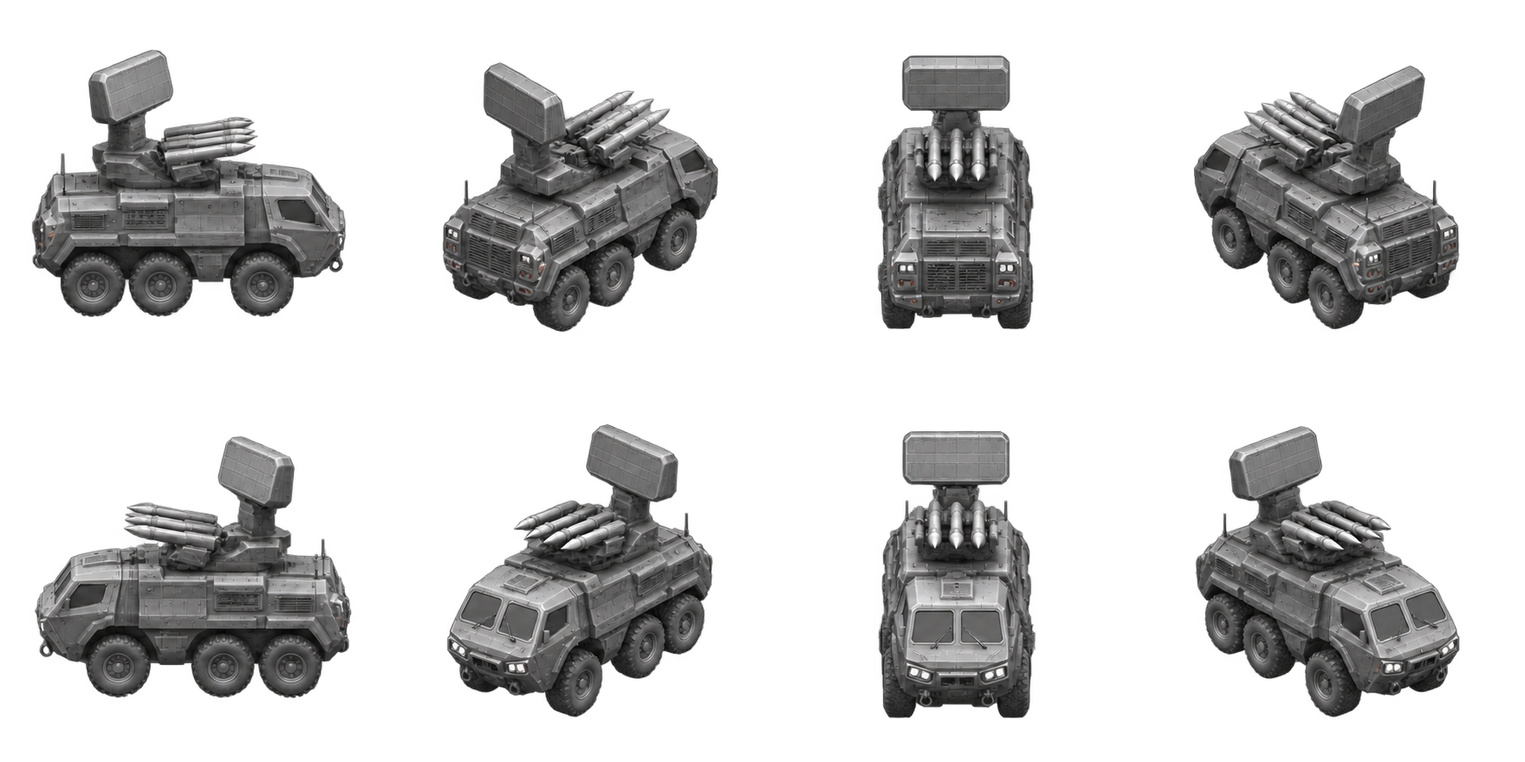
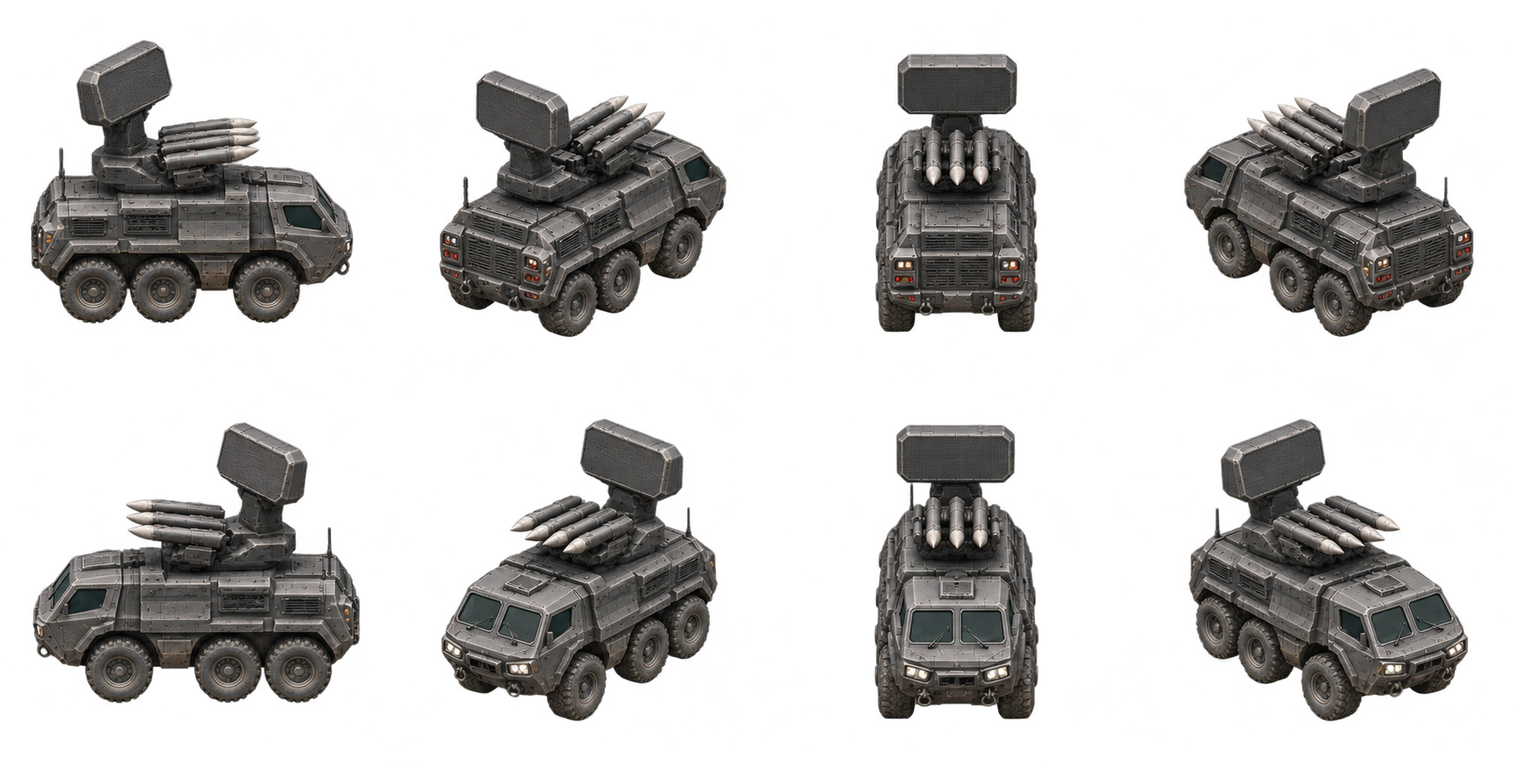
v6.30: 细化防空兵模与威胁警示并修正截图预算

diff --git a/DesertFrontline/GameScene.swift b/DesertFrontline/GameScene.swift
@@ -15490,54 +15490,54 @@ final class GameScene: SKScene {
             ellipseIn: CGRect(x: -range, y: -range, width: range * 2, height: range * 2),
             transform: nil
         )
-        entity.airDefenseThreatCoverageNode.fillColor = UIColor(red: 1.0, green: 0.22, blue: 0.12, alpha: 0.018)
-        entity.airDefenseThreatCoverageNode.strokeColor = UIColor(red: 1.0, green: 0.36, blue: 0.16, alpha: 0.56)
-        entity.airDefenseThreatCoverageNode.lineWidth = entity.kind == .samSite ? 2.8 : 2.2
-        entity.airDefenseThreatCoverageNode.glowWidth = 1.4
+        entity.airDefenseThreatCoverageNode.fillColor = .clear
+        entity.airDefenseThreatCoverageNode.strokeColor = HUDPalette.warning.withAlphaComponent(0.66)
+        entity.airDefenseThreatCoverageNode.lineWidth = 1.2
+        entity.airDefenseThreatCoverageNode.glowWidth = 0
         entity.airDefenseThreatCoverageNode.zPosition = -7
         entity.airDefenseThreatCoverageNode.isHidden = true
 
-        let markerColor = UIColor(red: 1.0, green: 0.52, blue: 0.16, alpha: 1.0)
-        let markerBaseY = entity.kind.footprint * 0.52 + 34
-        for index in 0..<3 {
+        let markerColor = HUDPalette.warning
+        let markerBaseY = entity.kind.footprint * 0.52 + 29
+        for index in 0..<2 {
             let path = CGMutablePath()
-            path.move(to: CGPoint(x: -8, y: 4))
-            path.addLine(to: CGPoint(x: 0, y: -4))
-            path.addLine(to: CGPoint(x: 8, y: 4))
+            path.move(to: CGPoint(x: -6, y: 3))
+            path.addLine(to: CGPoint(x: 0, y: -3))
+            path.addLine(to: CGPoint(x: 6, y: 3))
             let chevron = SKShapeNode(path: path)
-            chevron.position = CGPoint(x: 0, y: markerBaseY + CGFloat(index) * 9)
-            chevron.strokeColor = markerColor.withAlphaComponent(1.0 - CGFloat(index) * 0.18)
-            chevron.lineWidth = 3
+            chevron.position = CGPoint(x: 0, y: markerBaseY + CGFloat(index) * 7)
+            chevron.strokeColor = markerColor.withAlphaComponent(1.0 - CGFloat(index) * 0.24)
+            chevron.lineWidth = 1.5
             chevron.lineCap = .round
             chevron.lineJoin = .round
-            chevron.glowWidth = 1
+            chevron.glowWidth = 0
             entity.airDefenseThreatMarkerNode.addChild(chevron)
         }
-        let core = SKShapeNode(circleOfRadius: 4)
-        core.position = CGPoint(x: 0, y: markerBaseY - 10)
-        core.fillColor = UIColor(red: 1.0, green: 0.24, blue: 0.14, alpha: 1.0)
-        core.strokeColor = UIColor.white.withAlphaComponent(0.92)
-        core.lineWidth = 1.2
+        let core = SKShapeNode(circleOfRadius: 2.5)
+        core.position = CGPoint(x: 0, y: markerBaseY - 8)
+        core.fillColor = markerColor
+        core.strokeColor = HUDPalette.panelDeep
+        core.lineWidth = 1
         entity.airDefenseThreatMarkerNode.addChild(core)
         entity.airDefenseThreatMarkerNode.zPosition = 32
         entity.airDefenseThreatMarkerNode.isHidden = true
     }
 
     private func configureIncomingThreatMarkerNode(for entity: GameEntity) {
-        let warningColor = UIColor(red: 1.0, green: 0.30, blue: 0.14, alpha: 1.0)
+        let warningColor = HUDPalette.warning
         let arrowRadius = entity.kind.footprint * 0.78 + 10
         for index in 0..<2 {
-            let inset = CGFloat(index) * 9
+            let inset = CGFloat(index) * 6
             let path = CGMutablePath()
-            path.move(to: CGPoint(x: arrowRadius + inset - 9, y: -7))
+            path.move(to: CGPoint(x: arrowRadius + inset - 6, y: -4.5))
             path.addLine(to: CGPoint(x: arrowRadius + inset, y: 0))
-            path.addLine(to: CGPoint(x: arrowRadius + inset - 9, y: 7))
+            path.addLine(to: CGPoint(x: arrowRadius + inset - 6, y: 4.5))
             let chevron = SKShapeNode(path: path)
-            chevron.strokeColor = index == 0 ? UIColor.white.withAlphaComponent(0.94) : warningColor
-            chevron.lineWidth = index == 0 ? 2.2 : 3.2
+            chevron.strokeColor = index == 0 ? HUDPalette.text : warningColor
+            chevron.lineWidth = 1.5
             chevron.lineCap = .round
             chevron.lineJoin = .round
-            chevron.glowWidth = index == 0 ? 0.6 : 1.4
+            chevron.glowWidth = 0
             entity.incomingThreatDirectionNode.addChild(chevron)
         }
         entity.incomingThreatMarkerNode.addChild(entity.incomingThreatDirectionNode)
@@ -15545,10 +15545,10 @@ final class GameScene: SKScene {
         let labelY = -entity.kind.footprint * 0.48 - 16
         let labelBack = SKShapeNode(rectOf: CGSize(width: 36, height: 15), cornerRadius: 3)
         labelBack.position = CGPoint(x: 0, y: labelY)
-        labelBack.fillColor = UIColor(red: 0.22, green: 0.04, blue: 0.02, alpha: 0.88)
-        labelBack.strokeColor = warningColor
-        labelBack.lineWidth = 1.5
-        labelBack.glowWidth = 0.8
+        labelBack.fillColor = HUDPalette.panelDeep.withAlphaComponent(0.96)
+        labelBack.strokeColor = warningColor.withAlphaComponent(0.75)
+        labelBack.lineWidth = 0.75
+        labelBack.glowWidth = 0
         entity.incomingThreatMarkerNode.addChild(labelBack)
 
         entity.incomingThreatCountLabel.text = "IN 1"

diff --git a/ci/check_probe_runner.py b/ci/check_probe_runner.py
@@ -2484,7 +2484,8 @@ class SceneEvidenceTests(unittest.TestCase):
     def screenshot_context(self):
         self.runner.current_definition = self.definition
         self.runner.summary["selectedDevice"] = self.runner.device
-        record = self.scene()
+        record = self.runner.summary["probes"][0]
+        record.update(self.scene())
         return record, self.directory / self.definition["png"]
 
     def test_screenshot_timeout_retries_once_same_scene_and_isolates_late_output(self):
@@ -2541,6 +2542,60 @@ class SceneEvidenceTests(unittest.TestCase):
                     self.assertTrue((self.directory / attempts[0]["candidate"]).is_file())
                     self.assertEqual(record["screenCapture"]["elapsedSeconds"], 6)
 
+    def test_slow_screenshot_retry_leaves_full_ocr_in_both_deadlines(self):
+        # Synthetic timing/CLI receipts only; this does not execute Vision or simctl.
+        for shared_deadline in (1440, 170):
+            with self.subTest(shared_deadline=shared_deadline):
+                clock, caps, inspection_caps = [0.0], [], []
+                with patch("simulator_probe.time.monotonic", side_effect=lambda: clock[0]):
+                    self.runner = FakeRunner(self.directory)
+                    self.runner.deadline = shared_deadline
+                    record, path = self.screenshot_context()
+                    original_io = self.runner.simctl
+                    original_inspection = self.runner.inspect_capture
+                    def slow_io(name, *args, **kwargs):
+                        caps.append(kwargs["cap"])
+                        if len(caps) == 1:
+                            kwargs["receipt"].update(unit_cli_receipt(124, kwargs["cap"], timeout=True))
+                            (self.directory / kwargs["log"]).write_text("synthetic timeout and cleanup\n")
+                            clock[0] += 52
+                            raise ProbeFailure("synthetic screenshot timeout", 124)
+                        original_io(name, *args, **kwargs)
+                        clock[0] += kwargs["cap"] - 0.5 + 2  # CLI, then receipt/PNG overhead.
+                    def slow_inspection(*args, **kwargs):
+                        inspection_caps.append(args[3])
+                        clock[0] += 14
+                        return original_inspection(*args, **kwargs)
+                    self.runner.simctl = slow_io
+                    self.runner.inspect_capture = slow_inspection
+                    self.runner.capture_scene_screenshot(self.definition, record, path)
+                    record["rawImage"] = png_info(path)
+                    validate_screenshot_capture(self.runner.summary, record, self.directory)
+                    self.assertEqual(len(caps), 2)
+                    self.assertEqual(inspection_caps, [15])
+                    self.assertLessEqual(caps[1], min(180, shared_deadline) - 52 - 25)
+                    self.assertLess(clock[0], min(180, shared_deadline))
+                    self.assertEqual(self.runner.deadline, shared_deadline)
+
+    def test_exhausted_inspection_reserve_stops_before_helper_without_retry(self):
+        clock = [0.0]
+        with patch("simulator_probe.time.monotonic", side_effect=lambda: clock[0]):
+            self.runner = FakeRunner(self.directory)
+            record, path = self.screenshot_context()
+            self.runner.inspect_capture = Mock(side_effect=AssertionError("short OCR must not run"))
+            def slow_png(candidate):
+                image = png_info(candidate)
+                clock[0] = 168
+                return image
+            with patch("simulator_probe.png_info", side_effect=slow_png):
+                with self.assertRaisesRegex(ProbeFailure, "inspection reserve exhausted"):
+                    self.runner.capture_scene_screenshot(self.definition, record, path)
+            self.runner.inspect_capture.assert_not_called()
+            self.assertEqual(len(record["screenCapture"]["attempts"]), 1)
+            self.assertEqual(record["screenCapture"]["attempts"][0]["retryDecision"], "stop")
+            self.assertFalse(path.exists())
+            self.assertTrue((self.directory / record["screenCapture"]["attempts"][0]["candidate"]).is_file())
+
     def test_ocr_failure_or_insufficient_budget_never_authorizes_another_capture(self):
         for defect in ("ocr-timeout", "ocr-error", "insufficient-budget"):
             with self.subTest(defect=defect):
@@ -2596,6 +2651,7 @@ class SceneEvidenceTests(unittest.TestCase):
                        "analysis-cap", "analysis-bool", "analysis-big", "analysis-aspect", "analysis-float"):
             with self.subTest(defect=defect):
                 altered = json.loads(json.dumps(report))
+                expected_image = record["rawImage"]
                 if defect == "policy": altered["policy"] = "no-inspection"
                 elif defect == "image": altered["image"]["sha256"] = "0" * 64
                 elif defect == "rotation": altered["rotationDegrees"] = 270
@@ -2612,9 +2668,14 @@ class SceneEvidenceTests(unittest.TestCase):
                 elif defect == "analysis-cap": altered["analysis"]["maxPixelSize"] = 4096
                 elif defect == "analysis-bool": altered["analysis"]["width"] = True
                 elif defect == "analysis-big": altered["analysis"]["width"] = 1281
-                elif defect == "analysis-aspect": altered["analysis"]["height"] = 1
+                elif defect == "analysis-aspect":
+                    # The usual schema PNG is only 2x1; height=1 was not a mutation.
+                    # Keep dimensions bounded and the long edge correct, isolating aspect.
+                    expected_image = dict(record["rawImage"], width=2000, height=1000)
+                    altered["image"] = expected_image
+                    altered["analysis"].update(width=1280, height=600)
                 elif defect == "analysis-float": altered["analysis"]["width"] = float(altered["analysis"]["width"])
-                with self.assertRaises(ValueError): validate_visibility(altered, record["rawImage"])
+                with self.assertRaises(ValueError): validate_visibility(altered, expected_image)
         self.runner.work()
         self.runner.summary.update(status="success", integrityOutcome="success")
         self.assertEqual(self.package(self.runner)["probeIntegrityOutcome"], "success")
@@ -2650,7 +2711,7 @@ class SceneEvidenceTests(unittest.TestCase):
         self.runner.capture_scene_screenshot(self.definition, record, path)
         record["rawImage"] = png_info(path)
         validate_screenshot_capture(self.runner.summary, record, self.directory)
-        for defect in ("policy", "pid", "nonce", "device", "sequence", "budget", "elapsed", "cap", "cleanup", "image", "output", "argv", "candidate", "bool-index"):
+        for defect in ("policy", "pid", "nonce", "device", "sequence", "budget", "elapsed", "cap", "cleanup", "image", "output", "argv", "candidate", "bool-index", "short-ocr"):
             with self.subTest(defect=defect):
                 altered = json.loads(json.dumps(record));e = altered["screenCapture"];a = e["attempts"][0]
                 if defect == "policy": e["policy"] = "unbounded-retry"
@@ -2667,6 +2728,7 @@ class SceneEvidenceTests(unittest.TestCase):
                 elif defect == "argv": a["argv"][1] = "different-device"
                 elif defect == "candidate": a["candidate"] = "stale.png"
                 elif defect == "bool-index": a["attempt"] = True
+                elif defect == "short-ocr": a["visibility"]["process"]["limitSeconds"] = 1
                 with self.assertRaises((ProbeFailure, ValueError)):
                     validate_screenshot_capture(self.runner.summary, altered, self.directory)
 

diff --git a/ci/simulator_probe.py b/ci/simulator_probe.py
@@ -39,6 +39,9 @@ BOOT_OUTPUT_LIMIT = 1024 * 1024
 SCREENSHOT_POLICY = "same-scene-visible-screenshot-180-once-v2"
 SCREENSHOT_BUDGET = 180
 SCREENSHOT_FIRST_CAP = 45
+SCREENSHOT_INSPECTION_CAP = 15
+# Inside the existing 180s: full OCR plus PNG/receipt/trace bookkeeping.
+SCREENSHOT_FINISH_RESERVE = 25
 
 
 class ProbeFailure(Exception):
@@ -137,7 +140,8 @@ def validate_screenshot_capture(summary, record, directory):
         if (type(attempt.get("attempt")) is not int or attempt["attempt"] != index or attempt.get("candidate") != expected
                 or len(argv) != 4 or argv[:3] != ["io", evidence["deviceUDID"], "screenshot"]
                 or Path(argv[-1]).name != expected or not Path(argv[-1]).is_absolute()
-                or type(cap) not in (int, float) or not 0 < cap <= (SCREENSHOT_FIRST_CAP if index == 1 else SCREENSHOT_BUDGET)
+                or type(cap) not in (int, float) or not 0 < cap <= (
+                    SCREENSHOT_FIRST_CAP if index == 1 else SCREENSHOT_BUDGET - SCREENSHOT_FINISH_RESERVE)
                 or process.get("limitSeconds", 0) > cap or not cli_receipt_complete(process)
                 or process.get("elapsedSeconds", 0) > evidence["elapsedSeconds"] + 0.01
                 or process.get("exitCode") != attempt.get("exitCode")):
@@ -160,7 +164,7 @@ def validate_screenshot_capture(summary, record, directory):
             actual, _ = file_evidence(directory, log.get("path"))
             if (descriptor.get("path") != prefix + ".json" or log.get("path") != prefix + ".log" or actual != log
                     or not cli_receipt_complete(receipt) or receipt.get("trigger") != "exit" or receipt.get("exitCode") != 0
-                    or not 0 < receipt.get("limitSeconds", 0) <= 15
+                    or receipt.get("limitSeconds") != SCREENSHOT_INSPECTION_CAP
                     or read_visibility(directory, descriptor, attempt.get("image")) != ("clear" if last else "obstructed")):
                 raise SceneFailure("Screenshot visibility inspection incomplete or obstructed")
         if not last:
@@ -1310,13 +1314,14 @@ class Runner:
         record["screenCapture"] = evidence
         try:
             for index in (1, 2):
-                self.remaining(2)
+                self.remaining(SCREENSHOT_FINISH_RESERVE)
                 # A retry is another screen read of this exact live scene, never a
                 # relaunch, reboot, alternate renderer or substitute image.
                 if not alive(record["pid"]) or latest_ready(trace_records(self.summary, scene, self.directory), definition) != scene["ready"]:
                     raise SceneFailure("Screenshot scene changed or app exited before capture")
                 cap = min(SCREENSHOT_FIRST_CAP if index == 1 else SCREENSHOT_BUDGET,
-                          local_deadline - time.monotonic() - 2)
+                          local_deadline - time.monotonic() - SCREENSHOT_FINISH_RESERVE,
+                          self.remaining(SCREENSHOT_FINISH_RESERVE) - SCREENSHOT_FINISH_RESERVE)
                 if cap <= 0:
                     raise ProbeFailure("Screenshot shared 180s budget exhausted", 124)
                 candidate = self.directory / f"capture-{scene['nonce']}-{index}.png"
@@ -1329,15 +1334,16 @@ class Runner:
                 evidence["attempts"].append(attempt)
                 try:
                     name = f"probe:{definition['id']}:screenshot" + (":retry" if index == 2 else "")
-                    self.simctl(name, *args, cap=cap, receipt=attempt["process"], log=log, raw_log=True)
+                    self.simctl(name, *args, cap=cap, reserve=SCREENSHOT_FINISH_RESERVE,
+                                receipt=attempt["process"], log=log, raw_log=True)
                     if (not cli_receipt_complete(attempt["process"]) or attempt["process"].get("trigger") != "exit"
                             or attempt["process"].get("exitCode") != 0):
                         raise SceneFailure("Screenshot CLI cleanup/completion unconfirmed")
                     attempt["image"] = png_info(candidate)
                     prefix = f"capture-{scene['nonce']}-{index}-visibility"
-                    visibility_cap = min(15, local_deadline - time.monotonic() - 2)
-                    if visibility_cap <= 0:
-                        raise ProbeFailure("Screenshot inspection budget exhausted", 124)
+                    visibility_cap = SCREENSHOT_INSPECTION_CAP
+                    if min(local_deadline - time.monotonic(), self.remaining()) <= visibility_cap + 2:
+                        raise ProbeFailure("Screenshot inspection reserve exhausted", 124)
                     attempt["visibility"] = {}
                     _, status = self.inspect_capture(name + ":visibility", candidate, prefix,
                                                      visibility_cap, descriptor=attempt["visibility"])

diff --git a/update_log.md b/update_log.md
@@ -6653,3 +6653,19 @@ v6.9 官方复核（2026-11-09）：main `b096db605b190119cc9acc05e48b194d6ac683
 - 本次3799139bytes原始portrait慢图逐字节加入capture-slow-clear.png，来源覆写明确指向v6.28失败run/artifact/SHA；既有两图不变。prepare按三份来源逐一横/竖重放共6例，case唯一且按实际原方向决定sips90/270，仅检测器使用。它们都不是当前v6.29正式玩法截图。
 - inspection即使抛错，也把同一mutable descriptor内的owned CLI回执和原日志保存到attempt/manifest；新增直接合成回归验证超时停在单次、保留原候选/receipt/log与包装失败，扩展严格analysis缺项/类型/超量/比例/GPU/等级负例。预期135脚本；本机不执行测试/Swift/OCR，只静态解析与diff/链接。
 - 待精确新SHA云端generic/sim、6份真实检测器样本、全部24正式图与前一轮UI样式目视。检测设置遵循Apple ImageIO/Vision官方文档，CPU-only旧API的SDK弃用提示不等于本轮构建失败；实际编译以云端日志为准。
+
+
+### v6.29 云端复核 / 2026-11-14
+
[1 lines of base64/hex data omitted]
+- generic/sim双build成功、25HUD通过、6历史真实Vision样本0.295…1.158秒；正式5/24成功，move失败、18未运行，JUnit10/4failure/1明确XCTest skip。support实际遇到已知系统通知，原场景6秒后第二次截图clear，这是本次真实重读证据；不能据此宣称其余场景通过。
+- 两个静态失败来自新增用例：失败截图记录没有接入summary，导致包装找不到日志；比例负例把原本为1的高度又设1，未造成变异。move首截图CLI45秒超时且确认回收，第二次I/O101.874秒成功后只余1.152秒给OCR，helper停在read-start，总178.720/180秒。这次是预算被I/O消耗，不是Swift编译卡死，也不能将其描述为再次完整15秒OCR失败。
+
+### v6.30 / 防空兵模与战场警示、云端截图预算修复
+
+日期：2026-11-14
+
+- 两次内置imagegen生成防空车八向与匹配单幅，原始PNG保留用户目录1；按坦克格位校正车身方向，加入细装甲接缝、雷达网格和浅沙磨损。未用脚本修图，96世界格/原锚点/1536px整图缓存不变。资源来源和完整提示词见[美术说明](md/art/v6.30-air-defense-art.md)。
+- 既有已知防空威胁改为两层紧凑珊瑚细箭头与无填充细射程圈；incoming双箭头/数量保留，统一深色字底并去除glow。不改玩家/AI、合法目标、迷雾、经济、生产或SKRM状态流。
+- 修正两个失败用例；I/O在原180秒与全局deadline内预留25秒，完整15秒检测额度，剩余不足时清楚停止并留证。补两个直接时间/收尾回归及1秒额度拒绝，保留原24图和全部身份/gate，不加总体预算。
+- 本机仅静态轻量检查，具体结果与提交后云端证据待补。完整复刻、独立动画、实际触控、完整对局/SKRM与长期性能仍未完成，不以本次有限增量代替总目标。

diff --git a/md/test/test.md b/md/test/test.md
@@ -668,3 +668,6 @@ HUD分类使用单标题时，原生ready的hudText必须为single-title-tabs-v1
 截图可见性采用same-scene-visible-screenshot-180-once-v2：全部成功截图必须有system-banner-ocr-v2、系统Vision引擎、原图bytes/SHA/宽高、正确方向/顶部ROI、非空有界OCR文字与几何、正常退出回收回执和原始日志。runner/metadata从识别文字独立推导clear/obstructed，拒绝缺报告、摘要变化、旧策略、空文字、非有限/布尔数值、方向错误或假clear。仅首图明确识别Apple Intelligence通知且原设备/PID/nonce/ready仍有效时可等6秒重读一次，保留污染候选与报告；两次总预算180秒、最多2次不变，不能再叠加第三次超时恢复。第二次通知、OCR错误/超时、普通I/O失败、取消、场景变化或剩余不足停止。既有owned-CLI超时恢复与负例保留。analysis必须是thumbnail-cpu-fast-v1、最大边1280、有限正整数尺寸且比例与原图一致、CPU严格true、fast等级；缺项/旧policy/浮点或布尔冒充尺寸/错误上限/全图GPU/缩放或比例不符均拒绝。helper阶段计时与失败partial回执/原始日志保留在对应attempt和manifest；检测15秒上限不变。
 
 真实云端在同一runner准备阶段编译Vision helper，按来源清单检查历史污染/清晰PNG和实际超时候选，并在云端旋转为另一方向，逐份横/竖两态重放，保存visibility-fixtures.json/实际OCR报告/日志；这些是历史检测器fixture，不是当前玩法证据。全部当前24图仍须逐张目视，未知系统浮层不由该窄OCR门槛保证。相关Python回归只验证schema/路由/预算/拒绝与包装负例，不能冒充Vision执行；本机不编译helper或运行OCR。
+
+
+截图I/O必须在原180秒及全局deadline内预留25秒，检测正常准入使用完整15秒额度；剩余不足17秒时停止并留证，不用过短OCR超时替代明确预算不足。定向云端回归覆盖第一次CLI超时后慢重读、局部/全局deadline、完整OCR与超慢PNG bookkeeping停止，metadata拒绝1秒额度。失败留证用例把实际记录接入summary后检查manifest；比例负例使用明确错误比例的有界1280×600分析尺寸对应2000×1000原图，不能把原2×1的高度再次设1当作变异。所有这些用例只在云端运行。防空警示样式与AA换图仍按原方向/镜像/资源和迷雾合同，目视同SHA的tactical/air/mobile-aa/incoming等正式图，静态合同不证明美观或真实触控。

diff --git a/md/art/v6.30-air-defense-art.md b/md/art/v6.30-air-defense-art.md
@@ -1,0 +1,11 @@
+# 防空车材质与战场警示
+
+本轮使用两次内置 `image_gen` 调用生成原创资源：同一六轮防空车的八向图集，以及匹配的 SE 单幅。完整提示词、参考角色、原始路径、用户目录路径、尺寸和摘要见[生成记录](v6.30-generation-prompts.json)。原图同时保留在 `/Users/a114514/.codex/generated_images/1/`，没有脚本修图或重新采样。
+
+八向图集以当前坦克的格位与车身方向为参考，保持 E / NE / N / NW / W / SW / S / SE 的 4×2 布局。朝北车身显示后部，朝南车身显示驾驶舱和挡风玻璃；保持同一六轮底盘、四枚导弹和矩形雷达。材质使用石墨灰装甲、细接缝、雷达网格、低饱和玻璃和轮胎凹处的浅沙磨损。1774×887 RGBA 原图的 alpha≥32 主体在各格保留至少 24px 边距。运行时仍按原 1536px 整图 / 384px 单格解码，96 世界格、原锚点、父镜像补偿和方向迟滞不变。
+
+生产按钮沿现有 `productionArtworkTexture` 取八向图集的 SE 格；1254×1254 单幅与之匹配，保留为原单幅加载链路的资源。不会把独立头像存在当成按钮实际用了该文件。
+
+`configureAirDefenseThreatNodes` 将已知防空威胁的三层粗发光箭头改为两层紧凑细线与小圆点，射程使用无填充细线。`configureIncomingThreatMarkerNode` 保留双方向箭头与 `IN n` 数量，使用统一珊瑚色和深色字底，去掉 glow。节点仍在实体配置时创建；显示条件、敌方已知/潜艇检测规则、数量、旋转、攻击和死亡/SKRM 生命周期继续走同一条生产链路。
+
+这仍是静态八方向兵模，没有独立雷达或发射架动画。资源合同、真实贴图挂载、HUD/迷雾和正式画面必须以同 SHA 云端结果包核对；当前验证状态见[更新记录](../../update_log.md)。

diff --git a/md/flow/flow.md b/md/flow/flow.md
@@ -394,3 +394,10 @@ updateFog先按原逻辑计算visible/explored/supportReveal及0/.48/.86 fog til
 
 
 分析图使用[ImageIO缩略图上限](https://developer.apple.com/documentation/imageio/kcgimagesourcethumbnailmaxpixelsize)；[Vision CPU设置](https://developer.apple.com/documentation/vision/vnrequest/usescpuonly)与[识别等级](https://developer.apple.com/documentation/vision/vnrecognizetextrequest/recognitionlevel)仅作用于检测器。CPU设置API在新SDK有弃用提示，但仍沿当前VNRecognizeTextRequest兼容入口；不引入依赖或修改游戏资源。
+
+
+### 防空车与警示层
+
+防空车八向与匹配单幅使用[当前原创资源](../art/v6.30-air-defense-art.md)，原96世界格/锚点/1536px图集缓存和SE生产预览来源不变。`configureAirDefenseThreatNodes`预建两层紧凑珊瑚细线箭头、小圆点和无glow/无填充射程圈；`configureIncomingThreatMarkerNode`预建同语义双方向细线与深色`IN n`字底。既有known/operational/selected筛选、最近威胁旋转、父镜像、伤害与清理仍由原实体链路处理，不增加检测或战斗状态。
+
+截图180秒共享预算内，I/O每次准入保留25秒给完整15秒Vision和PNG/回执收尾；首次I/O仍最多45秒、总共最多两次，同一设备/PID/nonce/ready不变。命令也在全局工作deadline中保留这25秒。I/O后若任一本地/全局剩余不足17秒，保留候选和失败回执并停止，不发起缩短为1秒的OCR。metadata独立要求完整15秒检测额度；不增加总体预算、不改用离屏图或跳过通知门槛。

diff --git a/md/flow/flowchart.md b/md/flow/flowchart.md
@@ -545,3 +545,21 @@ flowchart LR
   Status -- "第二图是或OCR失败" --> Failure["停止 / 原图+阶段日志+partial回执"]
   Status -- 否 --> Formal["clear原图 / 原sips规范化 / metadata复核 / 正式PNG"]
 ```
+
+
+## 截图检测的预算分配
+
+读图说明：所有路径仍在同一180秒与全局工作deadline内，I/O不能占用最后的检测与收尾时间；只有原规则允许的CLI超时或明确系统通知可重读一次，检测预算不足则保留原图并失败。
+
+```mermaid
+flowchart TD
+  Ready["同一存活场景 / ready"] --> Admit["I/O准入：预留25秒检测与收尾"]
+  Admit --> IO["原生截图：首次最多45秒 / 最多两次"]
+  IO --> Budget{"本地与全局剩余均大于17秒？"}
+  Budget -- 是 --> OCR["完整15秒额度 / CPU fast Vision"]
+  Budget -- 否 --> Fail["保留原图、日志和回执 / 失败"]
+  OCR --> Status{"检测结果"}
+  Status -- clear --> PNG["核对身份并保存正式PNG"]
+  Status -- 首图已知通知且允许重读 --> Admit
+  Status -- 错误或第二次通知 --> Fail
+```
